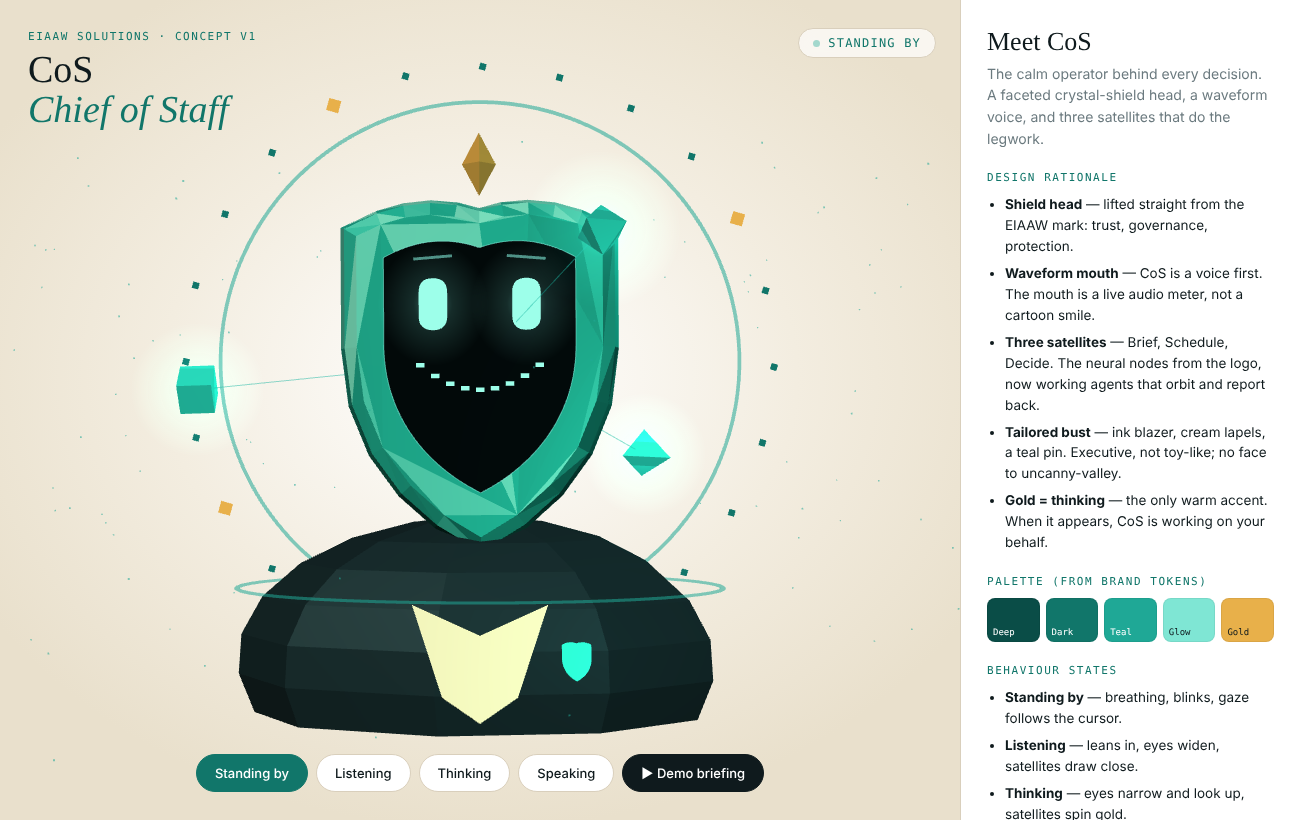
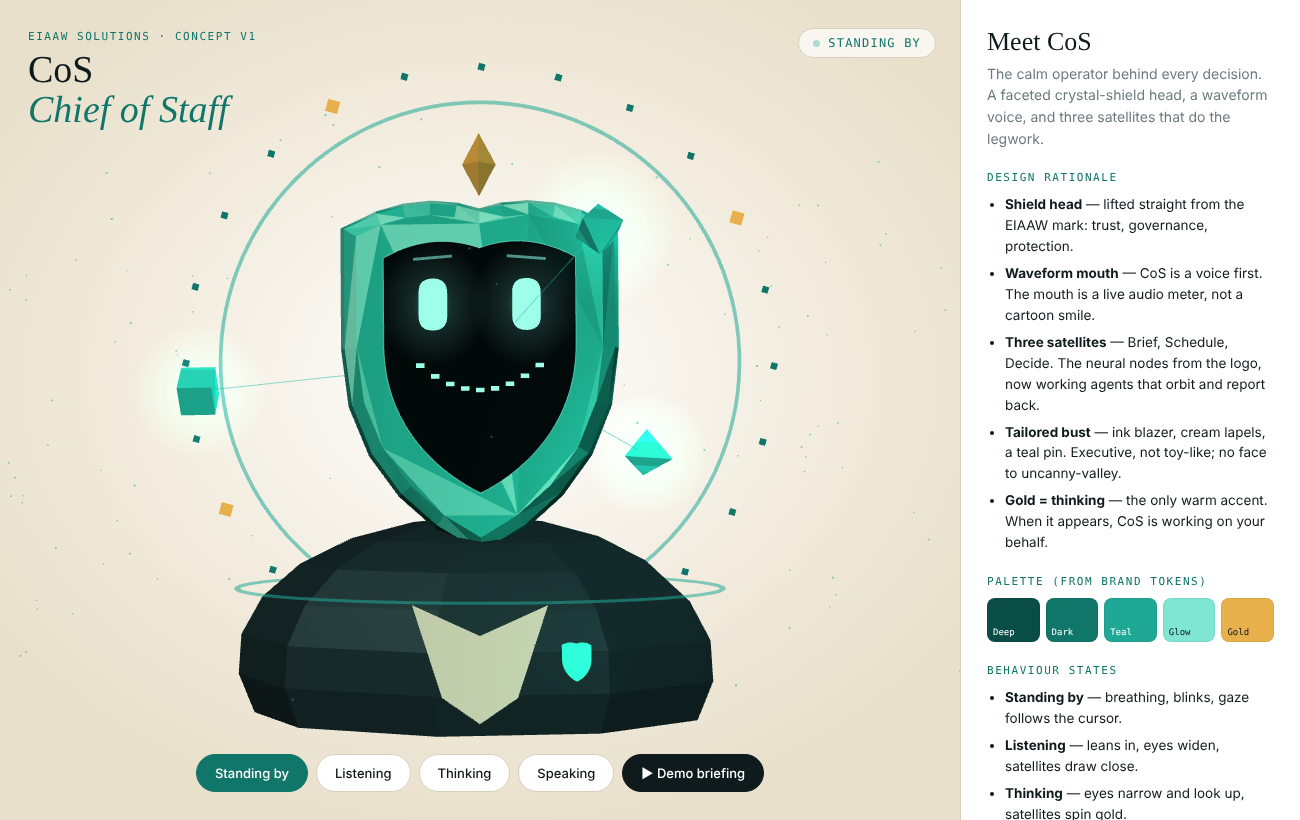
fix(cos): neutral cream lapels under warm key light
Claude-Session: https://claude.ai/code/session_01NbR7CrTHHVxw2x7Ac76gMx

diff --git a/cos/avatar.html b/cos/avatar.html
@@ -239,7 +239,7 @@ shoulderRim.scale.set(1.95,0.95,1); shoulderRim.rotation.x=Math.PI/2; shoulderRi
 [-1,1].forEach(s=>{
   const sh=new THREE.Shape(); sh.moveTo(0,0.0); sh.lineTo(s*0.62,0.28); sh.lineTo(s*0.34,-0.55); sh.lineTo(0,-0.78); sh.closePath();
   const g=new THREE.ExtrudeGeometry(sh,{depth:0.04,bevelEnabled:false});
-  const m=new THREE.Mesh(g,new THREE.MeshStandardMaterial({color:0xC9BC9C,roughness:0.85,flatShading:true,side:THREE.DoubleSide}));
+  const m=new THREE.Mesh(g,new THREE.MeshStandardMaterial({color:0x9E9B8C,roughness:0.9,flatShading:true,side:THREE.DoubleSide}));
   m.scale.set(0.82,0.82,1); m.position.set(0,0.02,0.86); m.rotation.x=-0.28; torso.add(m);
 });
 // pin: EIAAW shield
